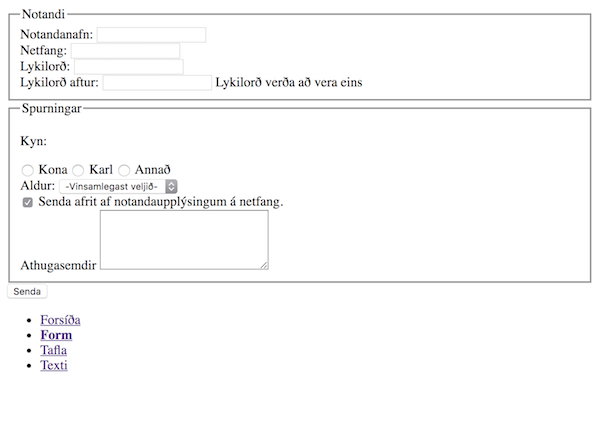
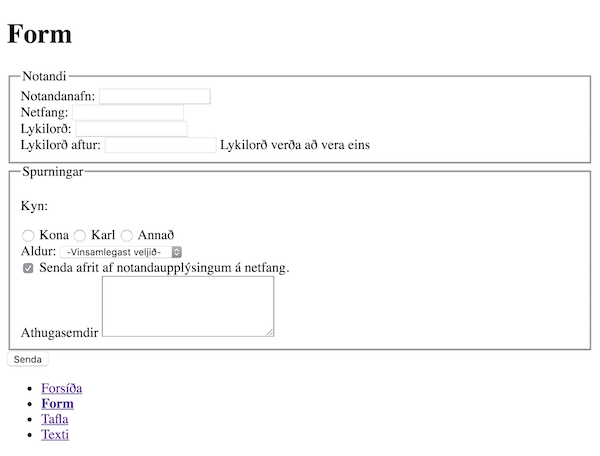
Útgáfa 0.2, bæta við titlum á form og töflu

Changed region(s): [[0.0, 0.0, 0.99, 0.9674]]

diff --git a/README.md b/README.md
@@ -53,11 +53,15 @@ Eftirfarandi skal biðja um í formi, hópað saman með `<fieldset>` og með vi
 
 Þegar ýtt er á takka gerist ekki neitt, þ.e.a.s. engin kóði keyrir og gögn eru ekki send neitt.
 
+Síðan skal hafa fyrirsögnina `Form`.
+
 ## Tafla
 
 Útbúa skal töflu með áföngum á tölvunarfræðideild. Gefin eru gögn með stuttu námskeiðsnúmeri, námskeiðsheiti, misseri og einingum.
 
 Gögn í töflu má nálgast í `gogn.csv`. Þar sem um margar línur af gögnum er að ræða er _ekki_ ráðlagt að setja gögnin handvirkt upp í ritli heldur skal nýta virkni í ritli til að breyta gögnum, sjá dæmi í fyrirlestri.
+
+Síðan skal hafa fyrirsögnina `Áfangar í tölvunarfræðideild HÍ 2018`.
 
 ## Texti
 
@@ -94,3 +98,14 @@ Skilaboð skulu innihalda slóð á verkefni ásamt zip skjali með lausn sem he
 Sett verða fyrir tíu minni verkefni þar sem átta bestu gilda 3,5% hvert, samtals 28% af lokaeinkunn.
 
 Sett verða fyrir tvö hópverkefni þar sem hvort um sig gildir 11%, samtals 22% af lokaeinkunn.
+
+---
+
+> Útgáfa 0.2
+
+### Útgáfusaga
+
+| Útgáfa | Lýsing                              |
+|--------|-------------------------------------|
+| 0.1    | Fyrsta útgáfa                       |
+| 0.2    | Setja inn titla fyrir form og töflu |
